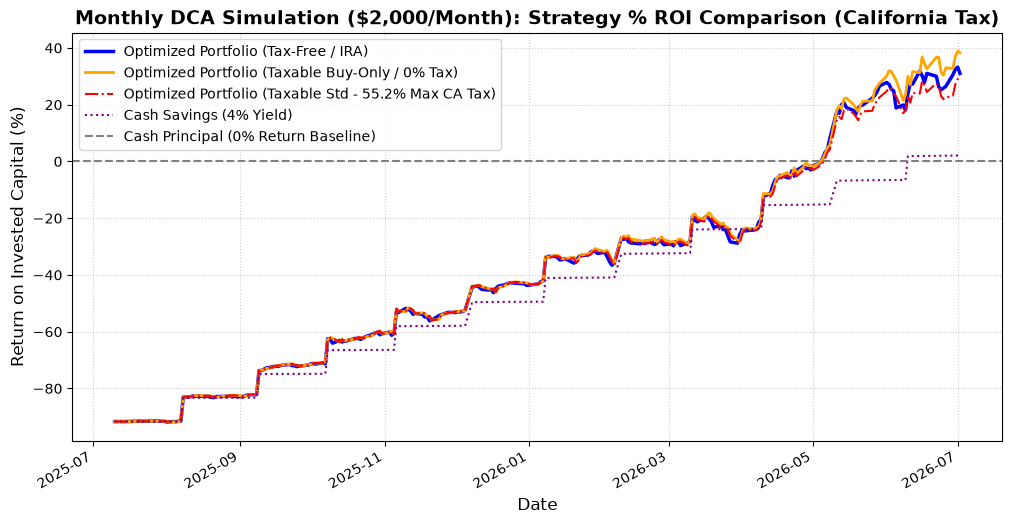
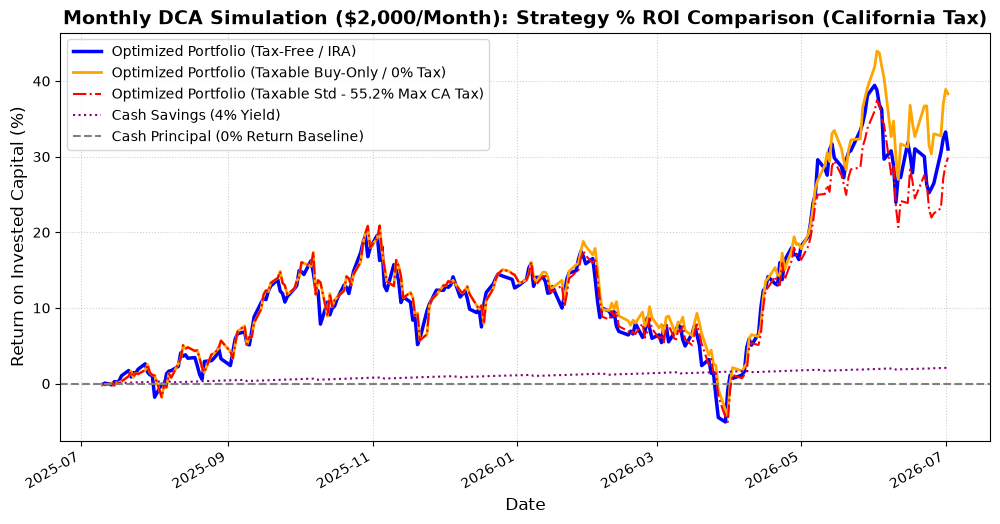
Fix normalization bug in California tax-aware backtest chart by tracking running principal

diff --git a/examples/tax_aware_backtest.py b/examples/tax_aware_backtest.py
@@ -73,6 +73,7 @@ def run_tax_aware_backtest():
     tax_free_holdings = pd.Series(0.0, index=stock_tickers)
     cash_holdings = 0.0
     principal_invested = 0.0
+    principal_value = []
     
     total_tax_paid_std = 0.0
     
@@ -253,6 +254,7 @@ def run_tax_aware_backtest():
         # Tax-Free and Cash Savings Value
         tax_free_value.append(tax_free_holdings.sum())
         cash_savings_value.append(cash_holdings)
+        principal_value.append(principal_invested)
         
     # Generate Results DataFrame
     backtest_dates = returns_df.index[start_idx:]
@@ -261,7 +263,7 @@ def run_tax_aware_backtest():
     results_df['Optimized Portfolio (Taxable Std - 55.2% STCG)'] = taxable_std_value
     results_df['Optimized Portfolio (Taxable Buy-Only)'] = taxable_buy_only_value
     results_df['Cash Savings (4% Yield)'] = cash_savings_value
-    results_df['Cash Savings (Principal)'] = [principal_invested] * len(backtest_dates)
+    results_df['Cash Savings (Principal)'] = principal_value
     
     # Calculate performance metrics
     metrics = {}